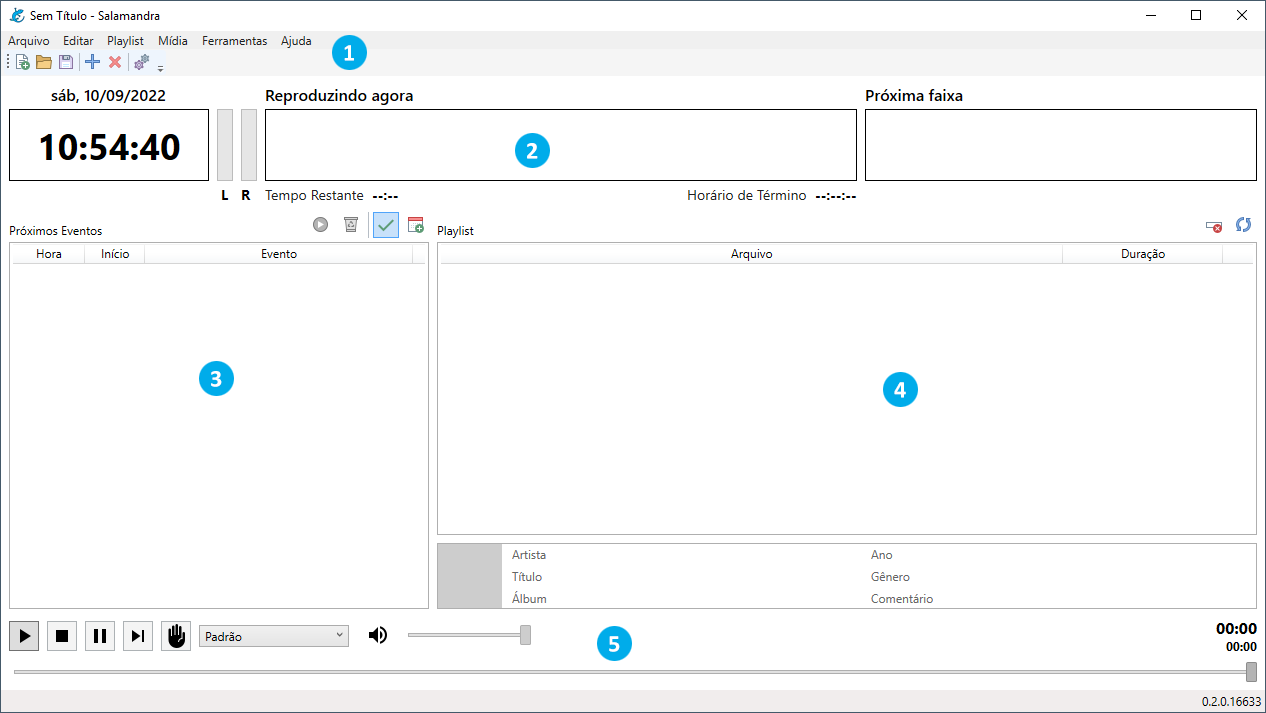
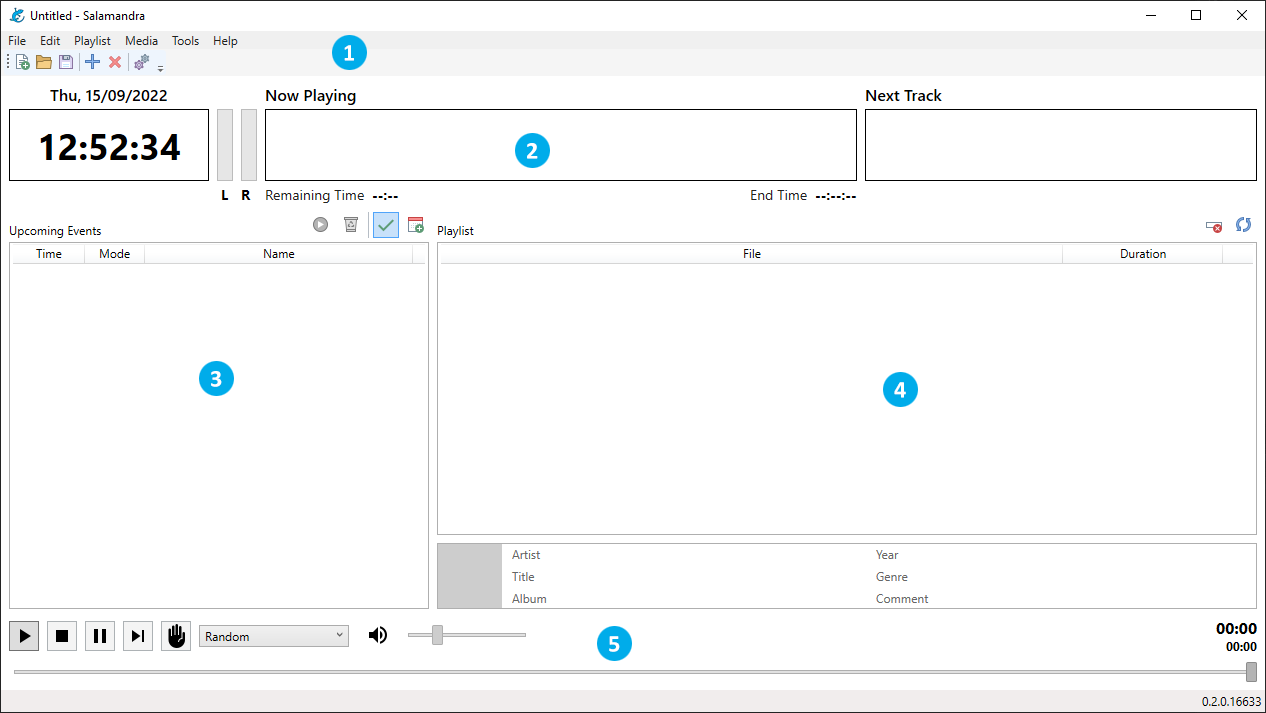
Seção 'Understanding the Main Window'

diff --git a/Docs/Getting Started.md b/Docs/Getting Started.md
@@ -30,21 +30,21 @@ Salamandra starts by default in English, but has a Portuguese translation availa
 	<img src="Images/ChangingLanguage.webp" alt="Alterando a linguagem do Salamandra"/>
 </p>
 
-# Criando a playlist musical
+# Creating a playlist with your music
 
-## Entendendo a Tela Inicial
+## Understanding the Main Window
 
-Antes de começar a explicar como fazer a sua programação musical, vamos a uma breve descrição da tela inicial do Salamandra.
+Before starting to explain how to make your music playlist, let's go through a brief description of Salamandra's main window.
 
 <p align="center">
-	<img src="Images/MainWindow.png" alt="Tela Principal"/>
+	<img src="Images/MainWindow.png" alt="Main Window"/>
 </p>
 
-* 1 - **Menu Principal e Barra de Ferramentas** - Onde você poderá acessar as diversas funções do programa separadas em categorias.
-* 2 - **Cabeçalho do Player** - Onde você poderá ver o horário, a faixa que está sendo reproduzida no momento e a próxima faixa.  
-* 3 - **Planilha de Eventos** - Onde você poderá ver os próximos eventos que serão reproduzidos e também acessar o agendador de eventos.
-* 4 - **Playlist** - Onde você poderá colocar as faixas que serão tocadas na sua rádio.
-* 5 - **Controles do Player** - Controles do player, volume, modo da playlist e posição da faixa atual.
+* 1 - **Main Menu and Toolbar** - Where you can access the functions of the program split into categories.
+* 2 - **Player Header** - Where you can see the time, the track that is currently playing and the next track.  
+* 3 - **Events Playlist** - Where you will be able to see upcoming events that will be played and also access the event scheduler.
+* 4 - **Playlist** - Where you can put the tracks that will be played on your radio.
+* 5 - **Player Controls** - Player controls, volume, playlist mode and current track position.
 
 ## Adicionando faixas à Playlist
 
